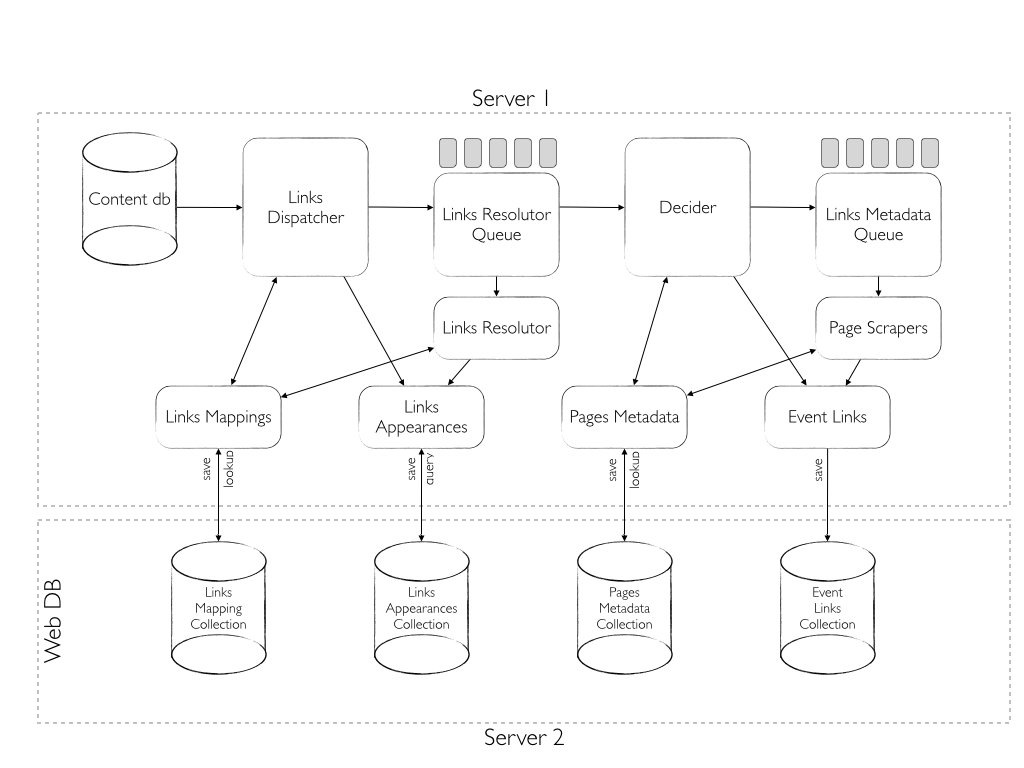
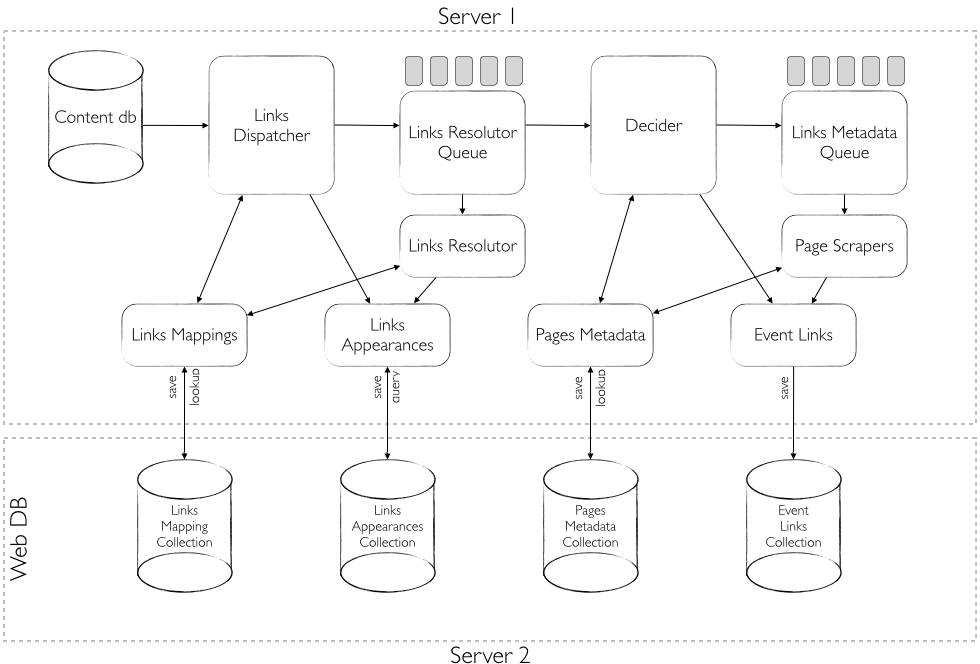
Fixed broken references

diff --git a/seen.tex b/seen.tex
@@ -155,7 +155,7 @@ The different computational steps performed in the resource extraction process a
 We now detail the general architecture of this system. Figure \ref{fig:architecture} outlines the major building blocks of the system.
 \begin{figure}[htbp]
   \centering
-  \includegraphics[width=\textwidth]{Figures/links_processing_architecture.png}
+  \includegraphics[width=8cm]{Figures/links_processing_architecture.png}
   \caption{Architecture of the system.}
   \label{fig:architecture}
 \end{figure}
@@ -240,7 +240,7 @@ When collecting data to compare the number of true-positives against the number 
 
 During our experiments, we also monitored the composition of the domains generating all the links, and the way they varied according to different filter settings. This approach, surfaced interesting information that could help automatically improve the quality of these storylines.
 
- (Sections \ref{sec:volumeResults} and \ref{sec:velocityResults}). In Section \ref{sec:dataset} we clarify what system constitutes the data source for our experiments, as well as how data is stored in such system. We then comment the quality and characteristics of the storylines obtained for each event in section \ref{sec:storylines}. In sections 
+In Section \ref{sec:dataset} we clarify what system constitutes the data source for our experiments, as well as how data is stored in such system. We then comment the quality and characteristics of the storylines obtained for each event in section \ref{sec:storylines}. In sections 
 
 \subsection{Notes and ideas to write about experimental results.}
 \begin{itemize}
@@ -292,7 +292,7 @@ We filtered the storylines resulting from the velocity and volume based processo
 
 Figure \ref{fig:tcdisrupt_plots} also indicates a substantial efficacy in selecting true-positive results when filtering the output of the volume based LSP. This was not observed with the other two events, where the performance difference between the two LSPs under this point of view was irrelevant undistinguishable.
 
-A characteristic of the plot made on velocity based results is the way there usually are a very limited number of highly referenced links that are underlined by their distance from lower-ranked resources. This can be seen in Figure \ref{fig:tcdisrupt_plots} as well as in Figure \ref{sfbatkid_plot}, where the top ranked item is a Vine of president Barak Obama congratulating with the young superhero. Although, those few outliers with very high values, happened to be, in all our experiments, true positives (they could used as ``highlighted'' links or reccomendations).
+A characteristic of the plot made on velocity based results is the way there usually are a very limited number of highly referenced links that are underlined by their distance from lower-ranked resources. This can be seen in Figure \ref{fig:tcdisrupt_plots} as well as in Figure \ref{fig:sfbatkid_plot}, where the top ranked item is a Vine of president Barak Obama congratulating with the young superhero. Although, those few outliers with very high values, happened to be, in all our experiments, true positives (they could used as ``highlighted'' links or reccomendations).
 \begin{figure}[htbp]
   \centering
   \includegraphics[width=8cm]{Figures/batkid_plot.png}
@@ -308,11 +308,11 @@ The analysis of the source domains underlined how different categories of events
   \centering
   \includegraphics[width=5cm]{Figures/category_domains.png}
   \caption{Source domains composition for the SFBatkid and the Kanye events. Volume thresholds have been chosed as the highest that still allowed enough results to produce a meaningful analysis.}
-  \label{fig:category_comains}
+  \label{fig:category_domains}
 \end{figure}
 This information could be used to automatically detect events' categories, or to implement a smarter ranking function thath assigns different importance to links coming from different sources, when the category of the event is known. We also noticed how some of the biggest generators of social content (i.e. Instagram, Facebook) tend to disappear from the pie chart when rising the volume threshold above one. This underlines the importance of a third dimension, the volume, in defining a ``category fingerprint'' in this particular space of the source domains.
 
-This analysis space can also help to automatically identify official sources for a given event. In fact, if the category fingerprint of an event is given, official sources can sometimes be identified as outliers: this can be clearly seen in figure \ref{tcdisrupt_outlier}, where the ``techcrunch'' domain has a clearly outsized cardinality comparing with the other sources.
+This analysis space can also help to automatically identify official sources for a given event. In fact, if the category fingerprint of an event is given, official sources can sometimes be identified as outliers: this can be clearly seen in figure \ref{fig:tcdisrupt_outlier}, where the ``techcrunch'' domain has a clearly outsized cardinality comparing with the other sources.
 \begin{figure}[htbp]
   \centering
   \includegraphics[width=5cm]{Figures/tcdisrupt_outlier.png}
